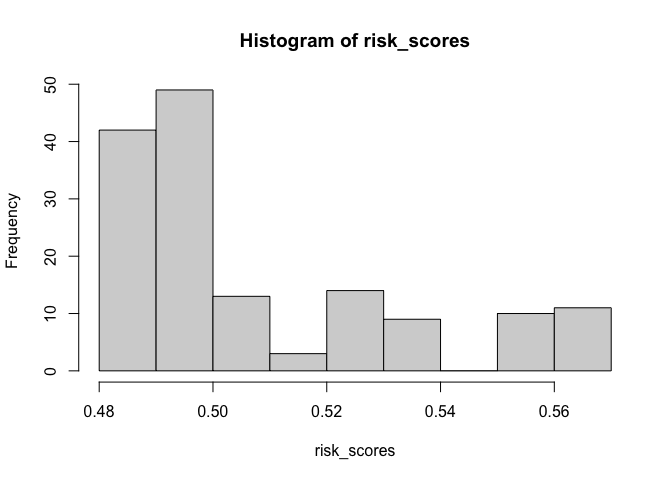
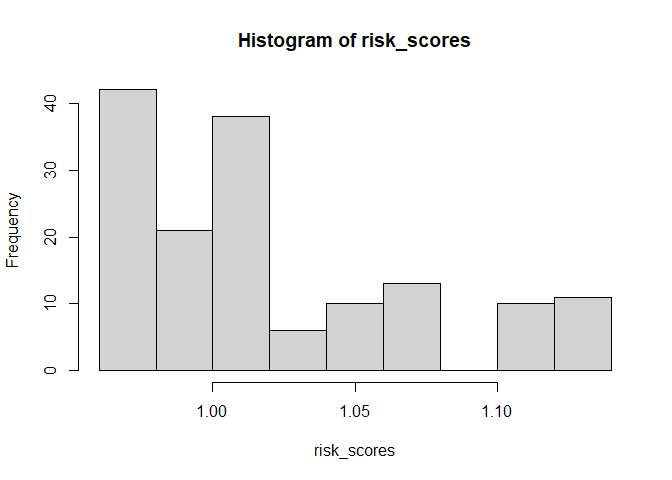
Bugfix for noncentered predictions
Added a bug fix if predictions aren't centered around 0, a bugfix if survival was predicted for a single timepoint, and an additional example to demonstrate survival was well calibrated

diff --git a/README.md b/README.md
@@ -1,7 +1,7 @@
 survXgboost package
 ================
 Iyar Lin
-01 February, 2024
+02 februari, 2024
 
 The xgboost package survival model returns predictions on the hazard
 ratio scale (i.e., as \$HR = exp(marginal_prediction) in the
@@ -13,7 +13,7 @@ perform full survival curve estimation.
 
 See also
 [discussion](https://datascience.stackexchange.com/questions/65266/how-do-i-predict-survival-curves-using-xgboost)
-in stackoverflow overflow
+in stackoverflow
 
 Below is a short usage demo.
 
@@ -55,35 +55,35 @@ surv_xgboost_model <- xgb.train.surv(
     ## Will train until val2_cox_nloglik hasn't improved in 30 rounds.
     ## 
     ## [2]  val2-cox-nloglik:1.988136 
-    ## [3]  val2-cox-nloglik:1.999317 
-    ## [4]  val2-cox-nloglik:2.000369 
-    ## [5]  val2-cox-nloglik:2.011067 
-    ## [6]  val2-cox-nloglik:1.999203 
-    ## [7]  val2-cox-nloglik:2.000823 
-    ## [8]  val2-cox-nloglik:2.014079 
-    ## [9]  val2-cox-nloglik:2.015103 
-    ## [10] val2-cox-nloglik:2.016976 
-    ## [11] val2-cox-nloglik:2.020993 
-    ## [12] val2-cox-nloglik:2.024742 
-    ## [13] val2-cox-nloglik:2.027878 
-    ## [14] val2-cox-nloglik:2.034186 
-    ## [15] val2-cox-nloglik:2.042607 
-    ## [16] val2-cox-nloglik:2.046746 
-    ## [17] val2-cox-nloglik:2.052691 
-    ## [18] val2-cox-nloglik:2.063710 
-    ## [19] val2-cox-nloglik:2.074147 
-    ## [20] val2-cox-nloglik:2.072881 
-    ## [21] val2-cox-nloglik:2.084827 
-    ## [22] val2-cox-nloglik:2.089368 
-    ## [23] val2-cox-nloglik:2.104786 
-    ## [24] val2-cox-nloglik:2.113672 
-    ## [25] val2-cox-nloglik:2.122862 
-    ## [26] val2-cox-nloglik:2.129615 
-    ## [27] val2-cox-nloglik:2.127782 
-    ## [28] val2-cox-nloglik:2.132626 
-    ## [29] val2-cox-nloglik:2.135991 
-    ## [30] val2-cox-nloglik:2.140200 
-    ## [31] val2-cox-nloglik:2.144522 
+    ## [3]  val2-cox-nloglik:1.999648 
+    ## [4]  val2-cox-nloglik:2.000725 
+    ## [5]  val2-cox-nloglik:2.011412 
+    ## [6]  val2-cox-nloglik:2.010582 
+    ## [7]  val2-cox-nloglik:2.012655 
+    ## [8]  val2-cox-nloglik:2.025819 
+    ## [9]  val2-cox-nloglik:2.027110 
+    ## [10] val2-cox-nloglik:2.027684 
+    ## [11] val2-cox-nloglik:2.030564 
+    ## [12] val2-cox-nloglik:2.034511 
+    ## [13] val2-cox-nloglik:2.038002 
+    ## [14] val2-cox-nloglik:2.043498 
+    ## [15] val2-cox-nloglik:2.052795 
+    ## [16] val2-cox-nloglik:2.057096 
+    ## [17] val2-cox-nloglik:2.062697 
+    ## [18] val2-cox-nloglik:2.074469 
+    ## [19] val2-cox-nloglik:2.085677 
+    ## [20] val2-cox-nloglik:2.084821 
+    ## [21] val2-cox-nloglik:2.097534 
+    ## [22] val2-cox-nloglik:2.102217 
+    ## [23] val2-cox-nloglik:2.115933 
+    ## [24] val2-cox-nloglik:2.123452 
+    ## [25] val2-cox-nloglik:2.132746 
+    ## [26] val2-cox-nloglik:2.137868 
+    ## [27] val2-cox-nloglik:2.136174 
+    ## [28] val2-cox-nloglik:2.140923 
+    ## [29] val2-cox-nloglik:2.144434 
+    ## [30] val2-cox-nloglik:2.149500 
+    ## [31] val2-cox-nloglik:2.153794 
     ## Stopping. Best iteration:
     ## [1]  val2-cox-nloglik:1.986334
 
@@ -108,3 +108,34 @@ hist(risk_scores)
 ```
 
 ![](README_files/figure-gfm/unnamed-chunk-4-1.png)<!-- -->
+
+We can see the package can produce survival estimates that are well
+calibrated
+
+``` r
+if(require(riskRegression)){
+  data(cancer, package="survival")
+  status_mgus2 <- ifelse(mgus2$death == 0, -mgus2$futime, mgus2$futime)
+  # We use na.pass since XGBoost can predict for missing data
+  formula_mgus2 <-  ~ age + sex + dxyr + hgb + mspike - 1
+  x_mgus2 <- model.matrix(
+    formula_mgus2,
+    model.frame(formula_mgus2, mgus2, na.action = "na.pass")
+  )
+  # Note: this model is likely overfitting horribly, but that helps demonstrate calibration
+  mgus2_model <- xgb.train.surv(
+    params = list(
+      objective = "survival:cox",
+      eval_metric = "cox-nloglik",
+      eta = 0.2
+    ), data = x_mgus2, label = status_mgus2,
+    nrounds = 10
+  )
+  surv_predictions <- predict(mgus2_model, x_mgus2, type = "surv", times= 60)
+  score <- Score(list(model1=1-surv_predictions),Surv(futime,death) ~1 ,data=mgus2,
+           times=60,plots="cal")
+  plotCalibration(score, rug = TRUE)
+}
+```
+
+![](README_files/figure-gfm/unnamed-chunk-5-1.png)<!-- -->
